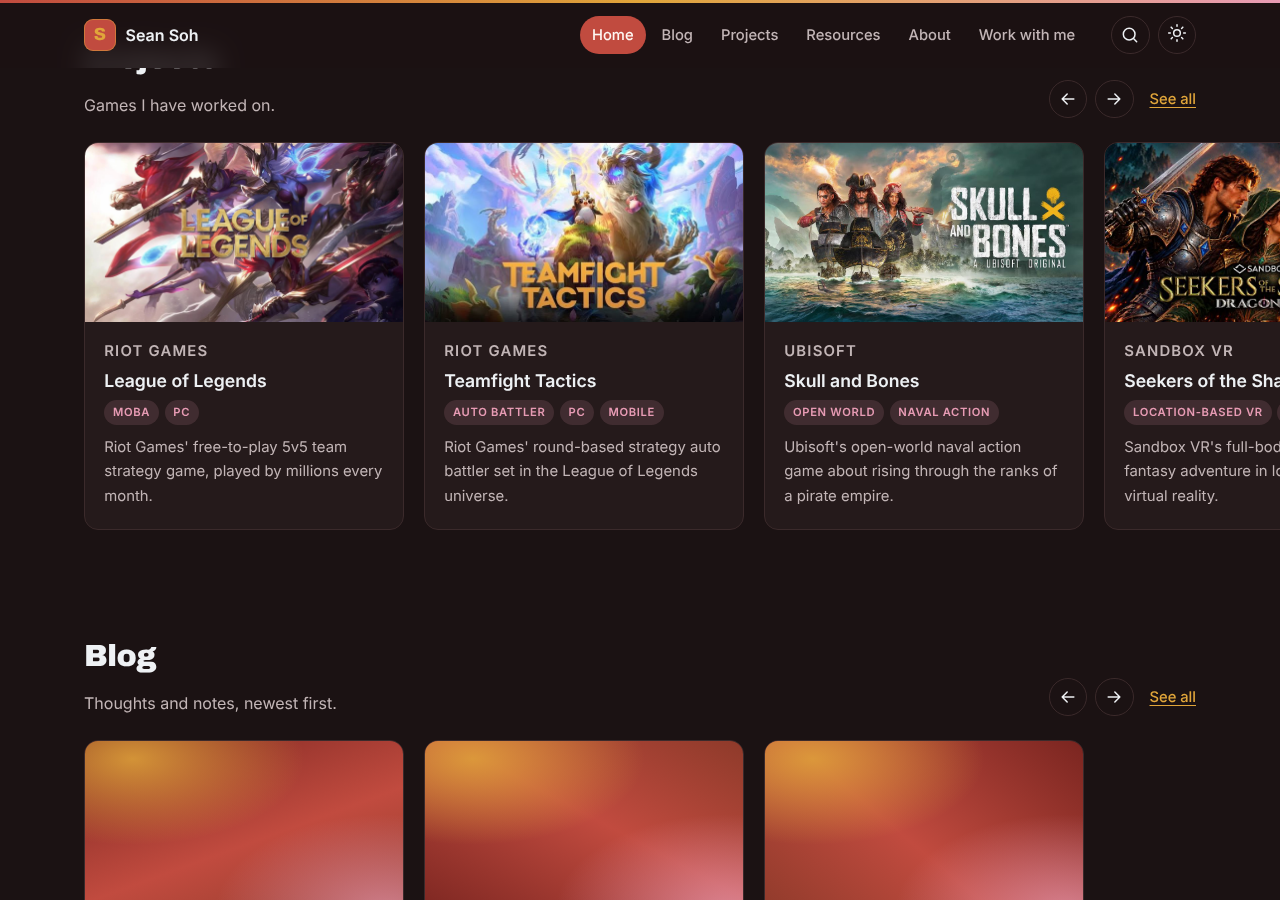
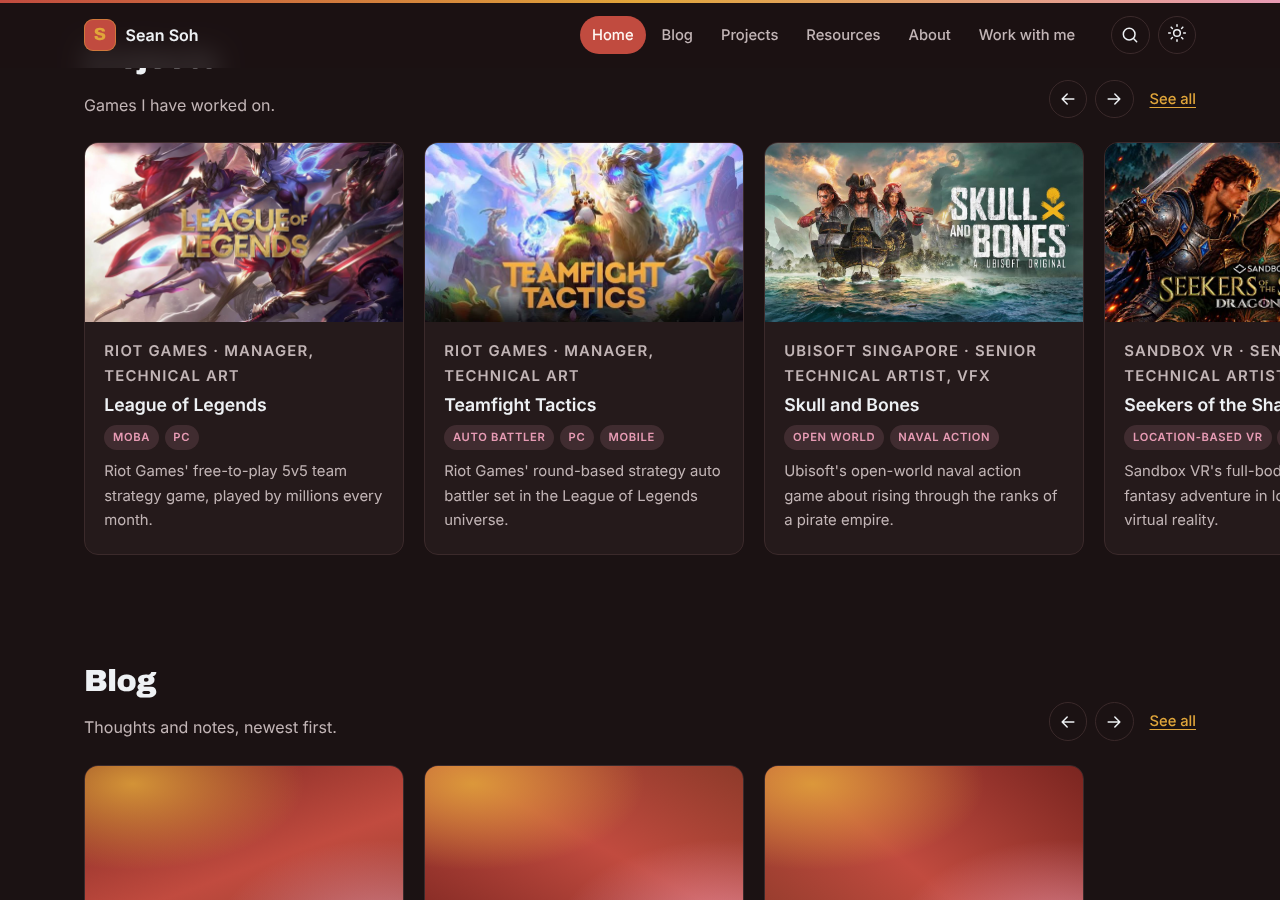
Fill in roles, dates and highlights for the four game projects from LinkedIn
Claude-Session: https://claude.ai/code/session_019aZhk6nqUmGebBMtB7amnR

diff --git a/_projects/league-of-legends.md b/_projects/league-of-legends.md
@@ -1,10 +1,10 @@
 ---
 title: "League of Legends"
 studio: Riot Games
-role: "Role to confirm"          # TODO: your title on this project (from LinkedIn)
-# period: "2021 – 2023"          # TODO: when you worked on it
+role: "Manager, Technical Art"
+period: "Nov 2021 – present"
 platforms: "PC"
-meta: "Riot Games"
+meta: "Riot Games · Manager, Technical Art"
 summary: "Riot Games' free-to-play 5v5 team strategy game, played by millions every month."
 tags: [MOBA, PC]
 order: 1
@@ -21,12 +21,16 @@ League of Legends is Riot Games' free-to-play multiplayer online battle arena (M
 
 ## My role
 
-<p class="todo">Draft placeholder: add your title, team and dates here. One or two sentences on what you owned.</p>
+I lead Technical Art at Riot Games in Singapore, working across League of Legends and Teamfight Tactics. My focus is rendering, visual realization and technical direction: helping Art Directors, Rendering Engineers and Technical Artists turn a creative vision into something that ships, runs well and can be produced at scale.
 
 ## What I worked on
 
-<p class="todo">Draft placeholder: 3–5 bullets, for example pipelines, tools, shaders or features you built, and who used them.</p>
+- **Rendering and visual realization.** Drive rendering strategy with Art Direction and Engineering, balancing creative ambition against performance and production feasibility.
+- **Shader and material infrastructure.** Contribute to shader modernization, material system improvements and the evolution of the rendering pipeline.
+- **Material consistency at scale.** Led a cross-functional effort to resolve inconsistencies across 100+ base materials and roughly 5,000 assets, laying the groundwork for broader shader infrastructure improvements.
+- **Interactive experiences.** Lead technical implementation and optimization for interactive experiences, including the Soul Fighter metagames and Battle of Koeshin.
 
 ## Impact
 
-<p class="todo">Draft placeholder: results you can share, such as performance gains, time saved for artists, or features shipped.</p>
+- 100+ base materials and ~5,000 assets brought into a consistent, maintainable state.
+- Technical standards and onboarding practices that help Technical Artists work with more ownership and autonomy.

diff --git a/_projects/teamfight-tactics.md b/_projects/teamfight-tactics.md
@@ -1,10 +1,10 @@
 ---
 title: "Teamfight Tactics"
 studio: Riot Games
-role: "Role to confirm"          # TODO: your title on this project (from LinkedIn)
-# period: "2021 – 2023"          # TODO: when you worked on it
+role: "Manager, Technical Art"
+period: "Nov 2021 – present"
 platforms: "PC, iOS, Android"
-meta: "Riot Games"
+meta: "Riot Games · Manager, Technical Art"
 summary: "Riot Games' round-based strategy auto battler set in the League of Legends universe."
 tags: [Auto battler, PC, Mobile]
 order: 2
@@ -20,12 +20,16 @@ Teamfight Tactics (TFT) is Riot Games' free-to-play auto battler, launched in 20
 
 ## My role
 
-<p class="todo">Draft placeholder: add your title, team and dates here. One or two sentences on what you owned.</p>
+As Manager, Technical Art at Riot Games, I provide Technical Art leadership for Teamfight Tactics alongside League of Legends, with a focus on visual realization, technical direction and scalable content production for a game that ships a new set of characters, boards and effects on a regular cadence.
 
 ## What I worked on
 
-<p class="todo">Draft placeholder: 3–5 bullets, for example pipelines, tools, shaders or features you built, and who used them.</p>
+- **Scalable content production.** Built centralized production tracking and workflow systems that improve visibility and coordination across distributed teams.
+- **Faster localization.** Guided workflow optimizations that cut Motion Comics localization turnaround from multiple days to about one day.
+- **Leading Technical Artists.** Lead and mentor Technical Artists across internal and external teams, supporting craft growth, clear ownership and production autonomy.
+- **Cross-studio partnership.** Partner with Art, Engineering, TechOps and Production across studios to align technical investment with creative and product priorities.
 
 ## Impact
 
-<p class="todo">Draft placeholder: results you can share, such as performance gains, time saved for artists, or features shipped.</p>
+- Motion Comics localization: from multiple days to roughly one day.
+- Clearer production visibility across geographically distributed teams.

diff --git a/_projects/seekers-of-the-shard.md b/_projects/seekers-of-the-shard.md
@@ -1,10 +1,10 @@
 ---
 title: "Seekers of the Shard: Dragonfire"
 studio: Sandbox VR
-role: "Role to confirm"          # TODO: your title on this project (from LinkedIn)
-# period: "2021 – 2023"          # TODO: when you worked on it
+role: "Senior Technical Artist"
+period: "Nov 2019 – May 2020"
 platforms: "Sandbox VR locations"
-meta: "Sandbox VR"
+meta: "Sandbox VR · Senior Technical Artist"
 summary: "Sandbox VR's full-body, multiplayer fantasy adventure in location-based virtual reality."
 tags: [Location-based VR, Full-body]
 order: 4
@@ -21,12 +21,14 @@ Seekers of the Shard: Dragonfire is a fantasy adventure from Sandbox VR, played 
 
 ## My role
 
-<p class="todo">Draft placeholder: add your title, team and dates here. One or two sentences on what you owned.</p>
+At Sandbox VR I was a Senior Technical Artist, owning the shading, VFX and rendering pipelines for its next-generation, full-body VR experiences, and leading R&D into efficient VFX methods and asset authoring to reach AAA production quality in VR.
 
 ## What I worked on
 
-<p class="todo">Draft placeholder: 3–5 bullets, for example pipelines, tools, shaders or features you built, and who used them.</p>
+- **Render pipeline migration.** Ported the entire project from Unity's legacy render pipeline to a playable HDRP VR build within a short timeframe.
+- **Shaders and VFX.** Created and optimized visual art assets, VFX and custom shaders using Shader Graph, VFX Graph, HLSL, Houdini and C#.
+- **R&D for VR.** Explored efficient visual effects techniques and authoring workflows that hold up at VR frame rates.
 
 ## Impact
 
-<p class="todo">Draft placeholder: results you can share, such as performance gains, time saved for artists, or features shipped.</p>
+- Full project moved to HDRP and playable in VR on a tight schedule.

diff --git a/_projects/skull-and-bones.md b/_projects/skull-and-bones.md
@@ -1,10 +1,10 @@
 ---
 title: "Skull and Bones"
-studio: Ubisoft
-role: "Role to confirm"          # TODO: your title on this project (from LinkedIn)
-# period: "2021 – 2023"          # TODO: when you worked on it
+studio: Ubisoft Singapore
+role: "Senior Technical Artist, VFX"
+period: "May 2020 – Nov 2021"
 platforms: "PS5, Xbox Series X|S, PC"
-meta: "Ubisoft"
+meta: "Ubisoft Singapore · Senior Technical Artist, VFX"
 summary: "Ubisoft's open-world naval action game about rising through the ranks of a pirate empire."
 tags: [Open world, Naval action]
 order: 3
@@ -20,12 +20,10 @@ Skull and Bones is an open-world naval action game by Ubisoft, led by Ubisoft Si
 
 ## My role
 
-<p class="todo">Draft placeholder: add your title, team and dates here. One or two sentences on what you owned.</p>
+I was a Senior Technical Artist on the VFX team at Ubisoft Singapore, the lead studio on Skull and Bones. My job was to give the VFX artists the shaders, tools and pipelines they needed to deliver the game's effects.
 
 ## What I worked on
 
-<p class="todo">Draft placeholder: 3–5 bullets, for example pipelines, tools, shaders or features you built, and who used them.</p>
-
-## Impact
-
-<p class="todo">Draft placeholder: results you can share, such as performance gains, time saved for artists, or features shipped.</p>
+- **Shaders and materials** for VFX, with a focus on FX rendering.
+- **Tools and systems** built to solve practical, day-to-day problems for the VFX team.
+- **Validation pipeline.** Set up and maintained the validation pipeline for VFX assets, catching issues before they reached the build.
